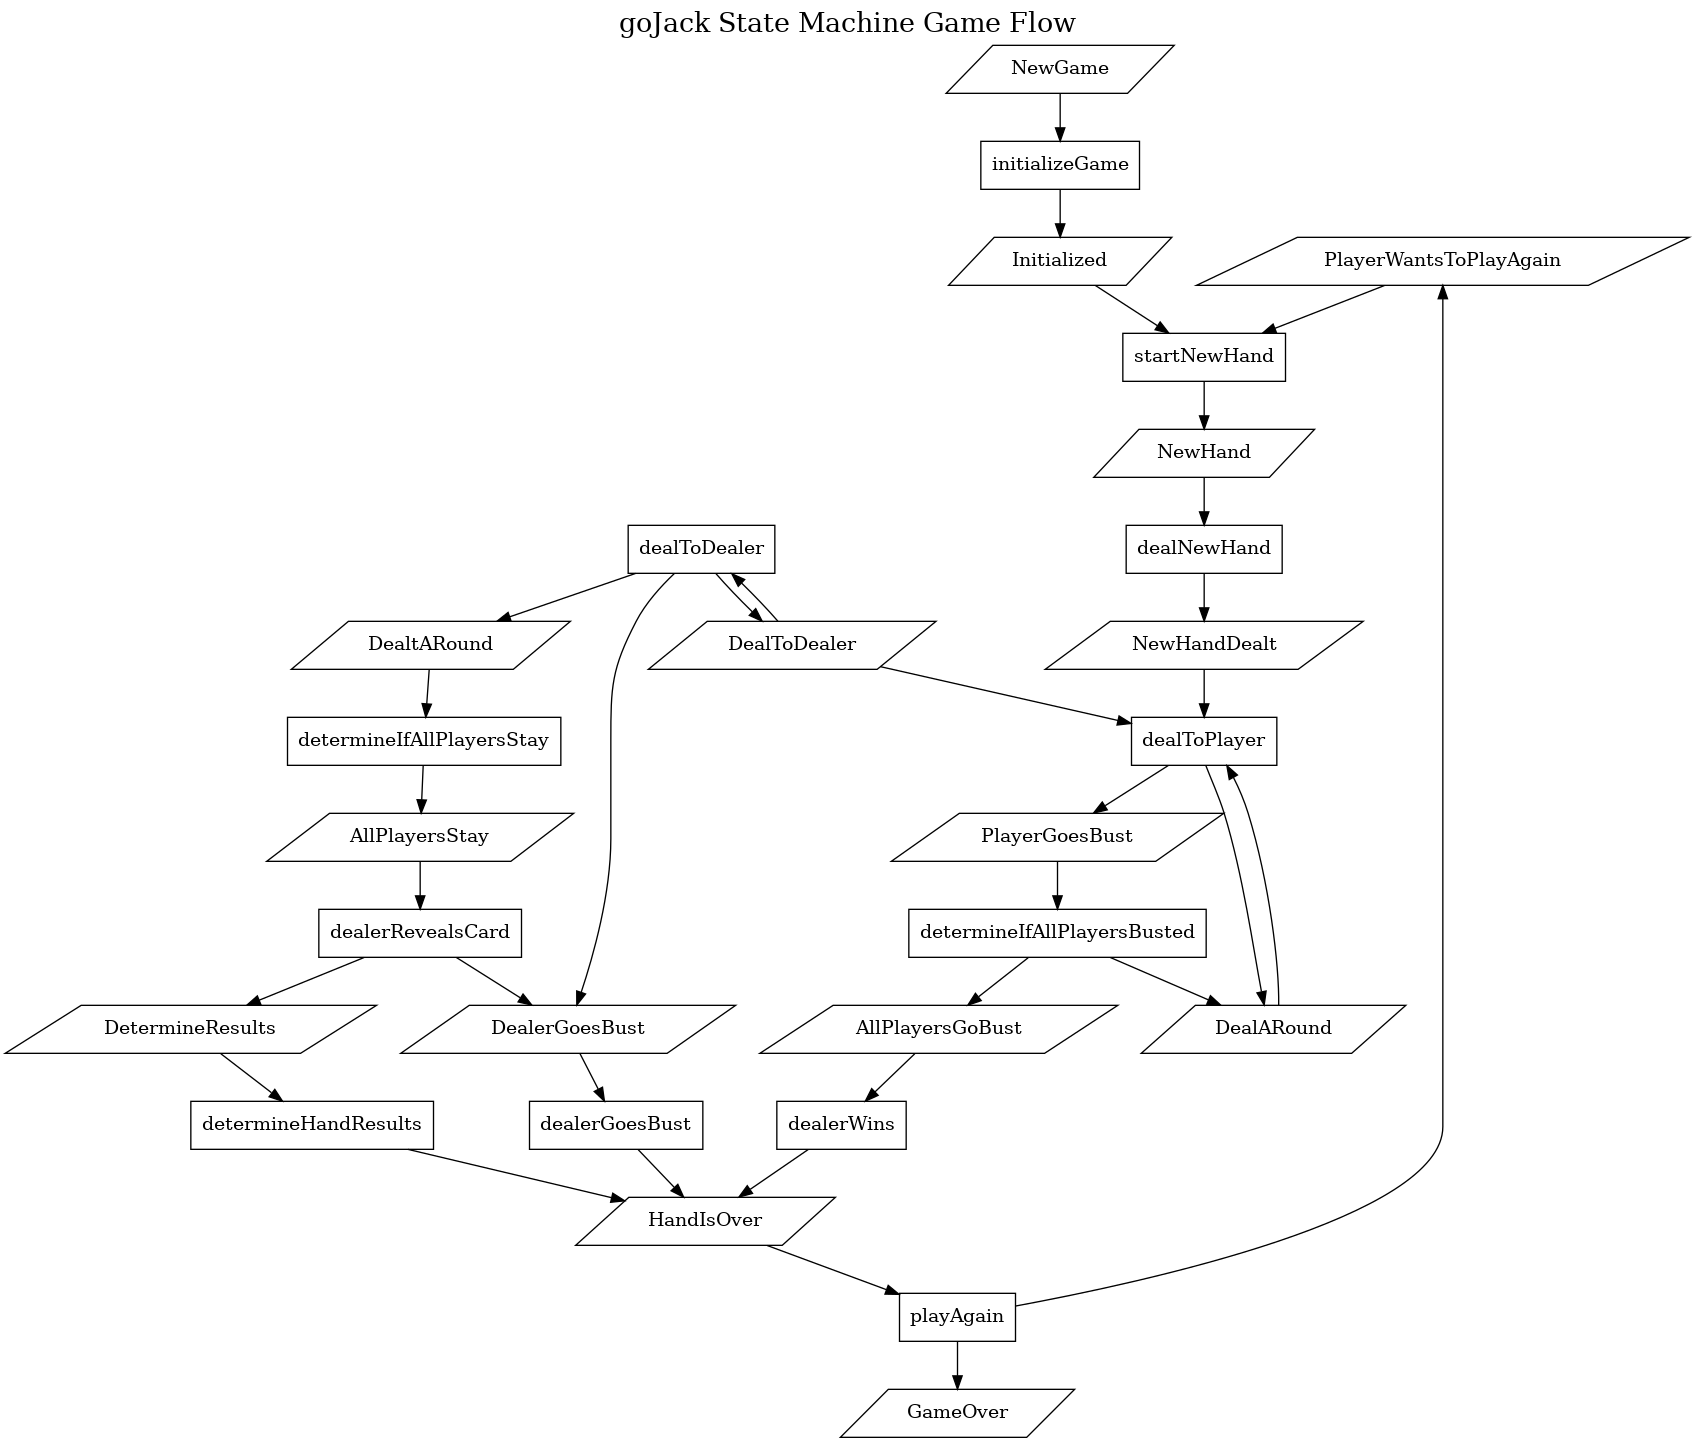
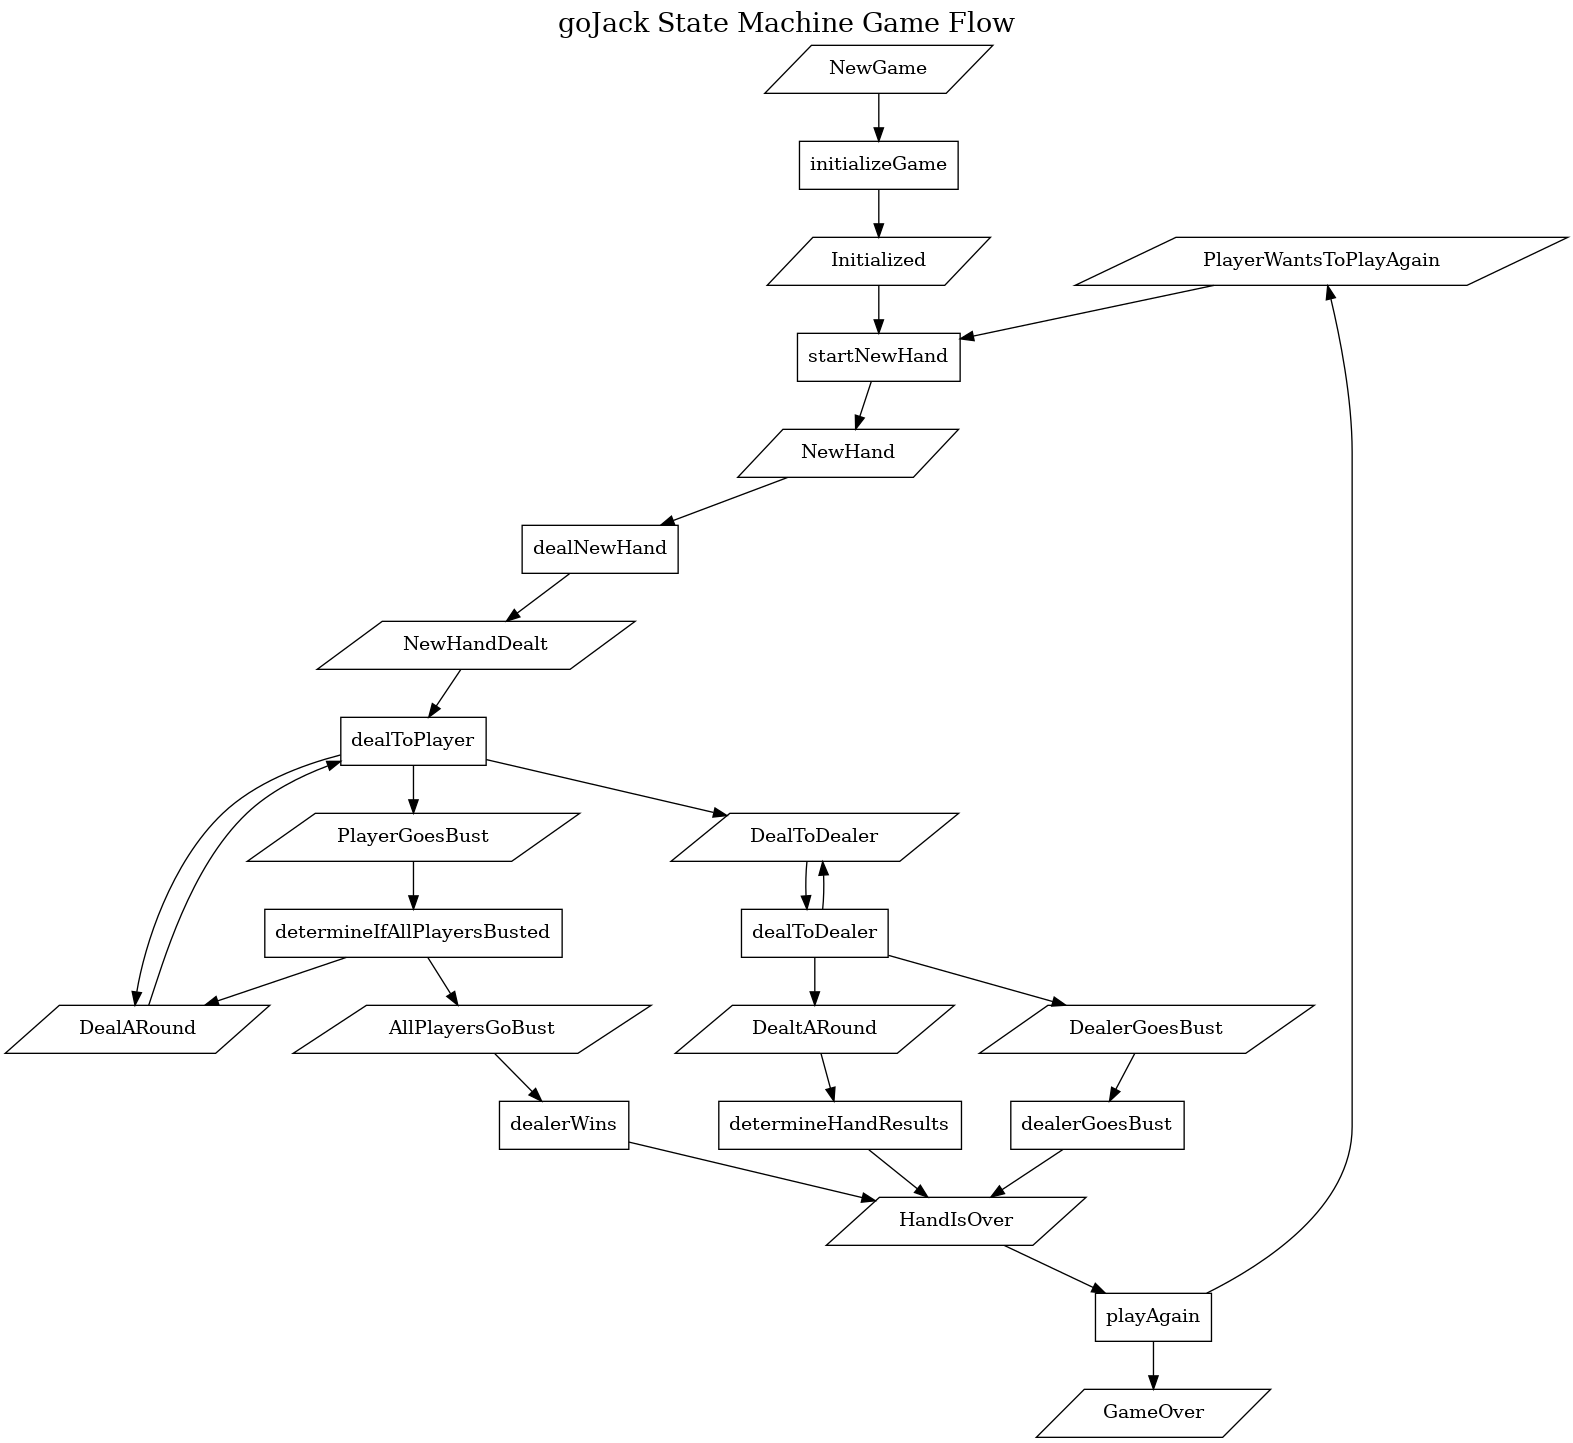
refine game flow (unnecessary state: AllPlayersStay removed)

diff --git a/pkg/game/state_functions.go b/pkg/game/state_functions.go
@@ -51,15 +51,17 @@ func dealNewHand() {
 		theGame.Dealer.Player.Hand.Takes(theGame.Dealer.Deck.Cards.GiveCard(1))
 		// The first dealer's card is dealt face-down
 		if i == 0 {
-			(*theGame.Dealer.Player.Hand.TheCards)[0].FaceDown = true
+			theGame.Dealer.Player.Hand.Takes(theGame.Dealer.Deck.Cards.GiveCard(1).FacingDown())
+		} else {
+			theGame.Dealer.Player.Hand.Takes(theGame.Dealer.Deck.Cards.GiveCard(1).FacingUp())
 		}
 	}
 	theGame.State = NewHandDealt
 }
 
 // dealToPlayer
-// Trigger States: DealARound, DealToDealer, NewHandDealt
-// Resulting States: DealARound, PlayerGoesBust
+// Trigger States: DealARound, NewHandDealt
+// Resulting States: DealARound, PlayerGoesBust, DealToDealer
 func dealToPlayer() {
 	p := theGame.Players[theGame.CurrentPlayerID]
 	choiceMade := false
@@ -100,6 +102,13 @@ func dealToPlayer() {
 // Trigger States: DealToDealer
 // Resulting States: DealToDealer, DealtARound, DealerGoesBust
 func dealToDealer() {
+	theGame.Dealer.RevealFirstCard()
+	theGame.ShowCards()
+	if theGame.Dealer.GoesBust() {
+		theGame.Results += "Dealer Goes Bust!\n"
+		theGame.State = DealerGoesBust
+		return
+	}
 	theGame.ShowCards()
 
 	if theGame.Dealer.GoesBust() {
@@ -107,26 +116,15 @@ func dealToDealer() {
 		theGame.State = DealerGoesBust
 		return
 	}
-	if theGame.Dealer.Player.Scores()[player.MAX] < 7 {
+	if theGame.Dealer.Player.Scores()[player.MAX] < 17 {
 		fmt.Printf("Dealer takes a card.  ")
 		theGame.Dealer.Player.Hand.Takes(theGame.Dealer.Deck.Cards.GiveCard(1))
 		time.Sleep(2 * time.Second)
 	} else {
-		fmt.Printf("Dealer Shows %d - will not hit over presumed 17!\n", theGame.Dealer.Player.Scores()[player.MAX])
+		fmt.Printf("Dealer Shows %d - will not hit over 17!\n", theGame.Dealer.Player.Scores()[player.MAX])
 		theGame.Dealer.Player.Choice = player.STAY
 		time.Sleep(2 * time.Second)
 		theGame.State = DealtARound
-	}
-}
-
-// deternubeIfAllPlayersStay
-// Trigger States: DealtARound
-// Resulting States: AllPlayersStay
-func determineIfAllPlayersStay() {
-	if theGame.AllStay() {
-		theGame.State = AllPlayersStay
-		fmt.Println("All Players Have Chosen to Stay")
-		time.Sleep(3 * time.Second)
 	}
 }
 
@@ -142,20 +140,6 @@ func determineIfAllPlayersBusted() {
 		// this occurs only for multi-player future variant
 		theGame.State = DealARound
 	}
-}
-
-// dealerRevealsCard
-// Trigger States: AllPlayersStay
-// ResultingStates: DetermineResults, DealerGoesBust
-func dealerRevealsCard() {
-	theGame.Dealer.RevealFirstCard()
-	theGame.ShowCards()
-	if theGame.Dealer.GoesBust() {
-		theGame.Results += "Dealer Goes Bust!\n"
-		theGame.State = DealerGoesBust
-		return
-	}
-	theGame.State = DetermineResults
 }
 
 // dealerGoesBust
@@ -179,7 +163,7 @@ func dealerWins() {
 
 // determineResults
 // contains call to theGameShowCards()
-// Trigger States: DetermineResults
+// Trigger States: DealtARound
 // Resulting States: HandIsOver
 func determineHandResults() {
 	// Evaluate final scores

diff --git a/pkg/game/game_states.go b/pkg/game/game_states.go
@@ -38,10 +38,9 @@ var (
 		NewHandDealt:           dealToPlayer,
 		DealARound:             dealToPlayer,
 		DealToDealer:           dealToDealer,
-		DealtARound:            determineIfAllPlayersStay,
+		DealtARound:            determineHandResults,
 		PlayerGoesBust:         determineIfAllPlayersBusted,
 		AllPlayersGoBust:       dealerWins,
-		AllPlayersStay:         dealerRevealsCard,
 		DealerGoesBust:         dealerGoesBust,
 		DetermineResults:       determineHandResults,
 		HandIsOver:             playAgain,

diff --git a/pkg/card/main.go b/pkg/card/main.go
@@ -89,6 +89,20 @@ func (c *Card) BaseValue() (v int) {
 	return
 }
 
+// Turns the card face down
+func (c *Card) FacingDown() (crd *Card) {
+	crd = c
+	c.FaceDown = true
+	return
+}
+
+// Turns the card face up
+func (c *Card) FacingUp() (crd *Card) {
+	crd = c
+	c.FaceDown = false
+	return
+}
+
 // Returns the suit's symbol
 func (s Suit) String() string {
 	return string(s.SuitSymbol)

diff --git a/cmd/goJack/main.go b/cmd/goJack/main.go
@@ -8,6 +8,5 @@ import (
 func main() {
 	game.ClearScreen()
 	game.TitleArt()
-	game.ClearScreen()
 	game.Play(game.RequestPlayerNames()...)
 }
